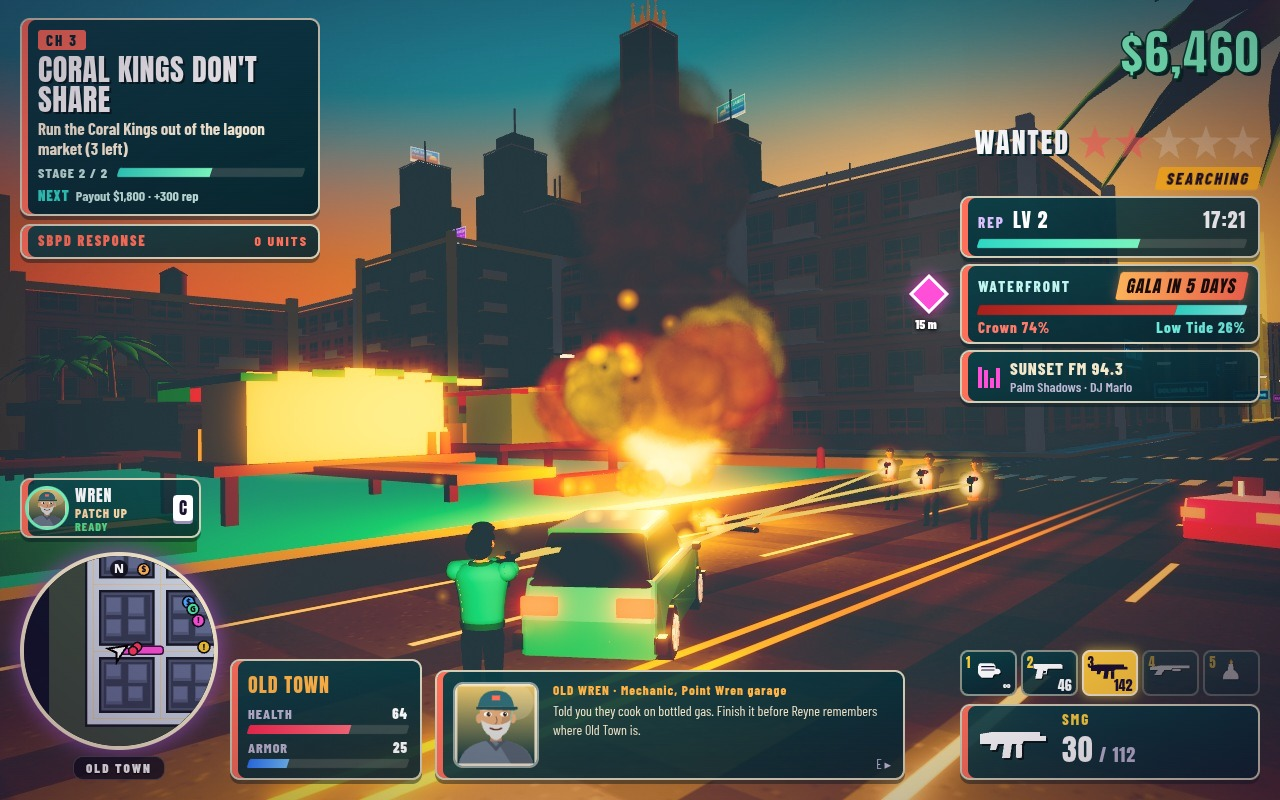
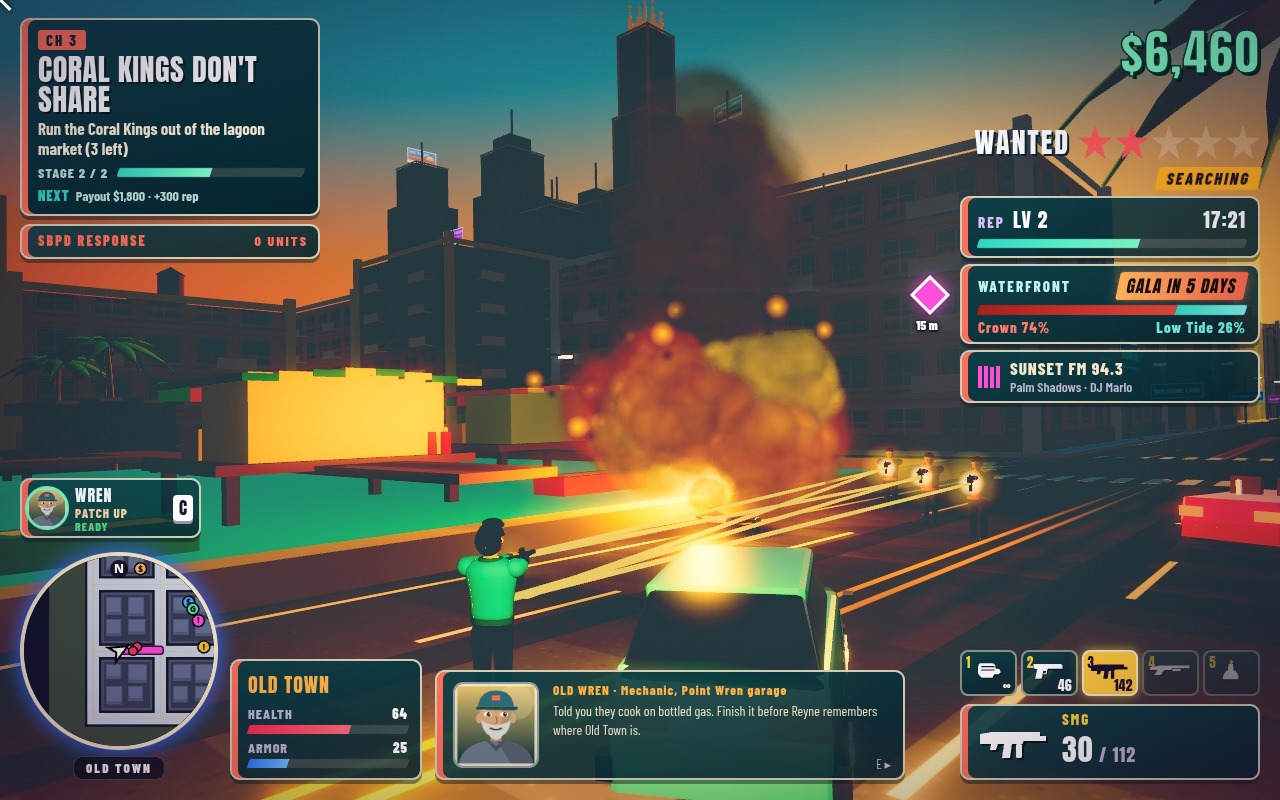
Re-shoot: AIR-1 lower over the Strand so its rotor disc is whole; market gunfight with the cage blown by Nico's real rounds; garage panel centred on the right

diff --git a/game/src/shots/screenshotScenes.js b/game/src/shots/screenshotScenes.js
@@ -56,7 +56,7 @@ function thinPalms(cx, cz, b0, b1, minD) {
 // Planned by projecting the key points: car centre-left low (x 350-890), pylon top at x~800 y~70 between the HUD columns,
 // AIR-1 at x~500 y~130 left of the pylon, the cone and its pool on the road left of the car's nose.
 const COVER = { clock: 17.62, drift: 0.66, at: [286.5, 192], cam: [-6.57, -0.9, 1.1], look: [32.4, 8.1, 3.6], fov: 46, roll: 0.03,
-  rammer: [5.2, -2.3, -0.4], second: [22, 6.5, 0.1], burner: [30, -6, 0.9], heli: [19, 1, 10], spot: [18, -4], roadblock: 92, paint: 0xf22a1c };
+  rammer: [5.2, -2.3, -0.4], second: [22, 6.5, 0.1], burner: [30, -6, 0.9], heli: [20, 0.5, 9], spot: [18, -4], roadblock: 92, paint: 0xf22a1c };
 function chase(api) {
   const p = G.p, C = COVER, [XS, ZS] = C.at, T = (u, v) => [XS + v, ZS - u], H = (d) => Math.PI + d; clearTraffic();
   G.mode = 'play'; G.clock = C.clock; G.magicForce = 1; G.time = 12; G.money = 48250; G.xp = 760; G.radio = 1; G.shotCrisp = true; api.showHud(true);
@@ -127,10 +127,10 @@ function boatRun(api) {
   updateLineOfSight(1); G.exposure = 1.1; if (G.post) Object.assign(G.post.params, { bloom: 0.34, threshold: 1.2, vignette: 0.3 });
   finish(api); }
 // Chapter 3, Coral Kings Don't Share: the gunfight on the road along the Old Town lagoon market. Nico fires the SMG from
-// behind the car he skidded in sideways; his rounds just touched off the gas cage at the market's south landing, and the
+// the tail of the car he skidded in (parked beside his line of fire so the rounds really reach the cage); his rounds just touched off the gas cage at the market's south landing, and the
 // fireball is rolling up over the Coral Kings bunched by the stalls while the others shoot back. Crown Tower stands over
 // the stilt market and the lagoon in the low sun. Camera low behind Nico's right shoulder looking east-north-east.
-const SHOT3 = { clock: 17.35, cam: [-268, 2.8, 229.8], look: [-248, 3.5, 211.5], fov: 54, nico: [-263.4, 223.6], cover: [-260.2, 222.4, Math.PI / 2 + 0.55], ride: [-246.5, 228.6, Math.PI / 2 - 0.3] };
+const SHOT3 = { clock: 17.35, cam: [-268, 2.8, 229.8], look: [-248, 3.5, 211.5], fov: 54, nico: [-263.4, 223.6], cover: [-262.0, 225.6, 2.07], ride: [-246.5, 228.6, Math.PI / 2 - 0.3] };
 function marketFight(api) {
   const p = G.p, S = SHOT3; clearTraffic(); G.mode = 'play'; G.clock = S.clock; G.magicForce = 1; G.time = 40; G.money = 6420; G.xp = 380; G.radio = 1; G.shotCrisp = true; api.showHud(true); rig.mode = 'auto';
   G.completed = ['m1', 'm2']; G.territory = null; G.crew = { cd: { wren: 0 }, swaps: 0 };
